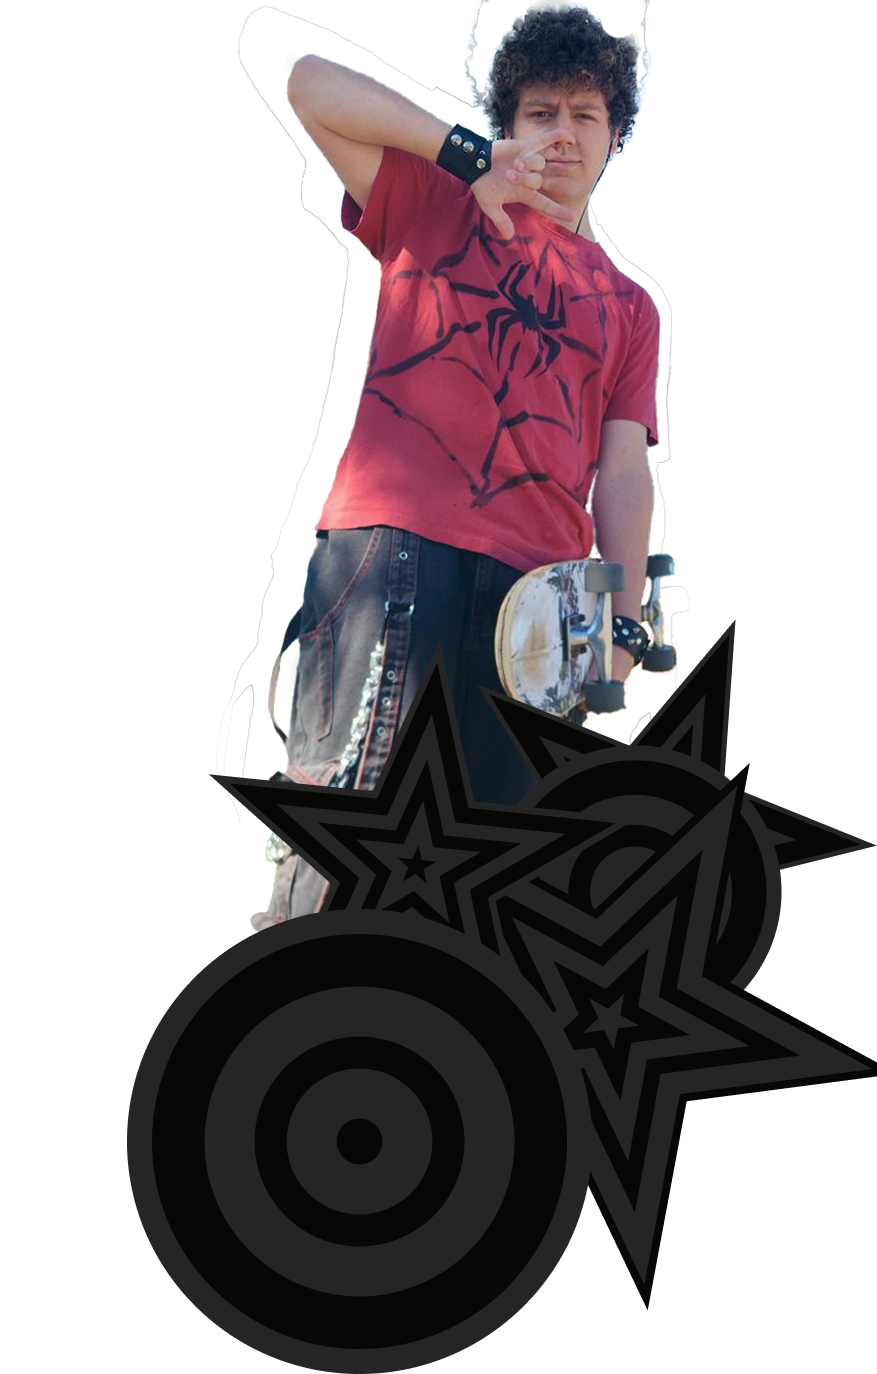
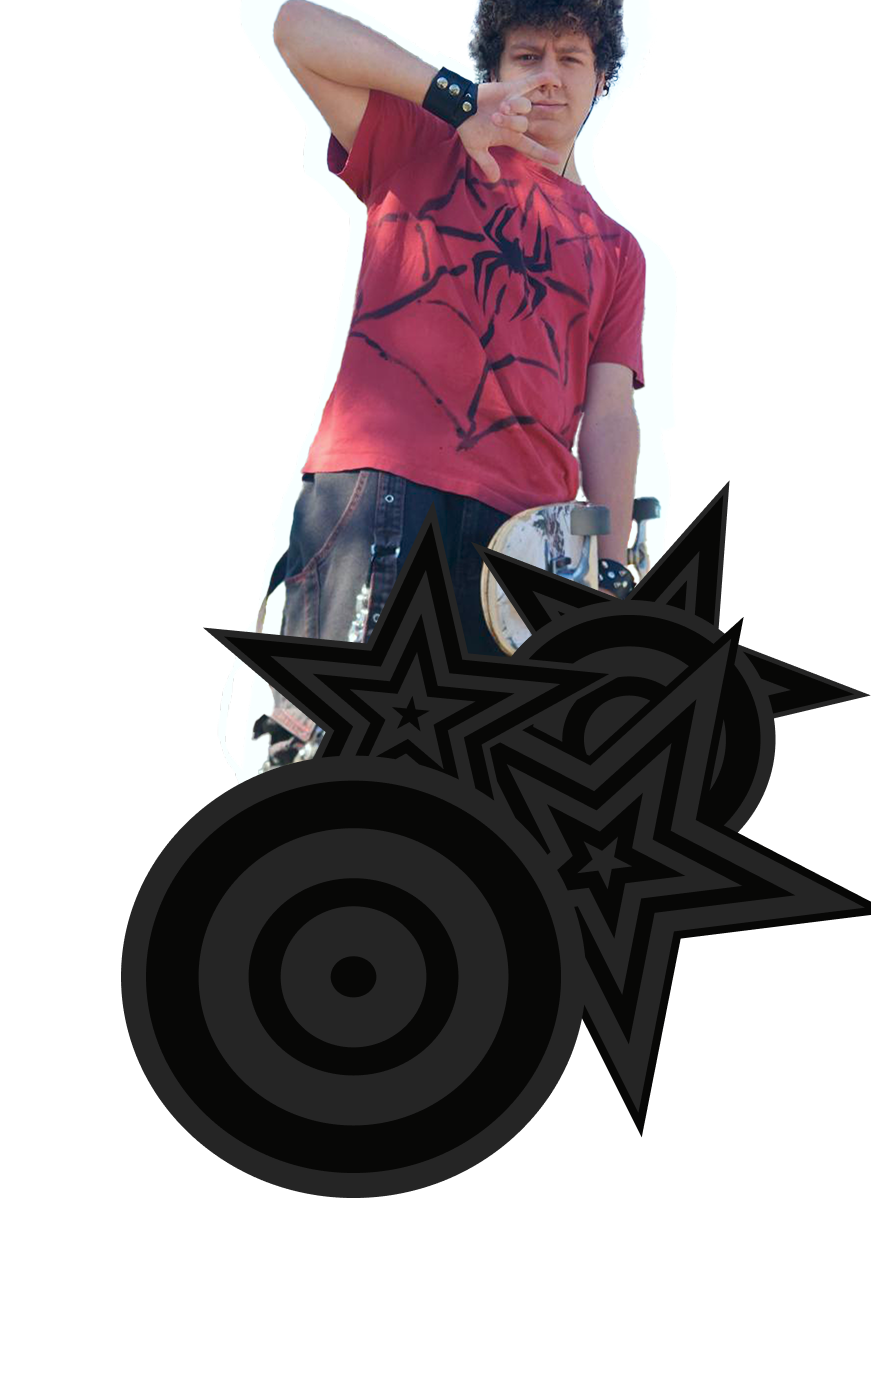
footer intégré

diff --git a/src/styles/components/footer.scss b/src/styles/components/footer.scss
@@ -1,3 +1,101 @@
 /* ==========================================================================
    footer / 
    ========================================================================== */
+
+.footer {
+    background: var(--color-primary);
+    color: var(--color-white);
+
+    .wrapper {
+        position: relative;
+
+        display: flex;
+        flex-direction: column;
+        align-items: flex-start;
+
+        padding: 80px 120px;
+        gap: 10px;
+    }
+
+    .top {
+        z-index: 10;
+
+        display: flex;
+        justify-content: space-between;
+        align-items: flex-end;
+
+        width: 100%;
+
+        .p__bold {
+            color: var(--color-white);
+        }
+    }
+
+    .footer__infos__cards {
+        display: flex;
+        justify-content: space-between;
+        align-items: center;
+
+        gap: 25px;
+
+        .footer__info__card {
+            display: flex;
+            flex-direction: column;
+            align-items: flex-start;
+
+            padding: 10px 0;
+            gap: 10px;
+            width: 50%;
+
+            .footer__coord {
+                z-index: 10;
+
+                display: flex;
+                flex-direction: column;
+                justify-content: center;
+                align-items: flex-start;
+
+                gap: 5px;
+
+                a {
+                    color: var(--color-white);
+                }
+            }
+        }
+    }
+
+    .nav__plateforme {
+        z-index: 10;
+
+        ul {
+            display: flex;
+            justify-content: center;
+            align-items: center;
+
+            gap: 30px;
+            a {
+                svg {
+                    fill: var(--color-white);
+                }
+                &:hover {
+                    svg {
+                        fill: var(--color-secondary);
+                    }
+                }
+            }
+        }
+
+        @media (width < $breakpoint-sm) {
+            display: none;
+        }
+    }
+
+    .card_pattern {
+        position: absolute;
+
+        height: 400px;
+        bottom: -20px;
+        left: -50px;
+        transform: rotate(100deg);
+    }
+}

diff --git a/src/_partials/_footer.html b/src/_partials/_footer.html
@@ -7,15 +7,15 @@
 
                 <a href="#" class="link p__bold">Mon CV</a>
            </div>
-           <span></span>
+           <span class="line"></span>
            <div class="footer__infos__cards">
-            <div class="footer__info__card">
+            <div class="footer__info__card text_card">
                 <h2>Contact</h2>
-                <span></span>
+                <span class="line"></span>
                 <div class="footer__coord">
-                    <a href="mailto:marcantoine.roy03@gmail.com">marcantoine.roy03@gmail.com</a>
-                    <span></span>
-                    <a href="tel:(438) 493-2243">(438) 493-2243</a>
+                    <a class="p__bold" href="mailto:marcantoine.roy03@gmail.com">marcantoine.roy03@gmail.com</a>
+                    <span class="line"></span>
+                    <a class="p__bold" href="tel:(438) 493-2243">(438) 493-2243</a>
                 </div>
                 <nav class="nav__plateforme">
                     <ul>
@@ -31,9 +31,9 @@
                     </ul>
                 </nav>
             </div>
-            <div class="footer__info__card">
+            <div class="footer__info__card text_card">
                 <h2>Déclarations légals</h2>
-                <span></span>
+                <span class="line"></span>
                 <p>L’IA générative n’a pas été utilisée dans ce projet ou aucun projets présenté.
                     <br />
                     Tout droit d’auteur sur les projets: Marc-Antoine Roy et contributeurs. 
@@ -41,6 +41,7 @@
                     Photos: Alexandre Donato @2026.</p>
             </div>
            </div>
+           <img class="card_pattern" src="assets/icons/pattern1-neutre.svg" alt="star-pattern" />
         </div>
     </footer>
     </body>

diff --git a/src/styles/components/projets.scss b/src/styles/components/projets.scss
@@ -33,6 +33,8 @@
 
                 z-index: 10;
 
+                overflow: hidden;
+
                 .logiciels,
                 .date {
                     margin-left: auto;
@@ -47,6 +49,16 @@
                         fill: transparent;
                         stroke: var(--color-white);
                     }
+                }
+
+                .date {
+                    display: flex;
+                    gap: 30px;
+                }
+
+                .card_pattern {
+                    left: -20px;
+                    bottom: 0;
                 }
             }
 

diff --git a/src/index.html b/src/index.html
@@ -27,10 +27,6 @@
         </div>
         <div class="hub__media">
             <img src="assets/images/hub-pic.png" alt="hub picture" />
-
-            <svg class="icon">
-                <use href="#icon-pattern1-neutre"></use>
-            </svg>
         </div>
     </div>
 </section>

diff --git a/src/styles/elements/body.scss b/src/styles/elements/body.scss
@@ -5,6 +5,7 @@
    ========================================================================== */
 html {
     scroll-behavior: smooth;
+    scrollbar-width: none;
 }
 
 body {
